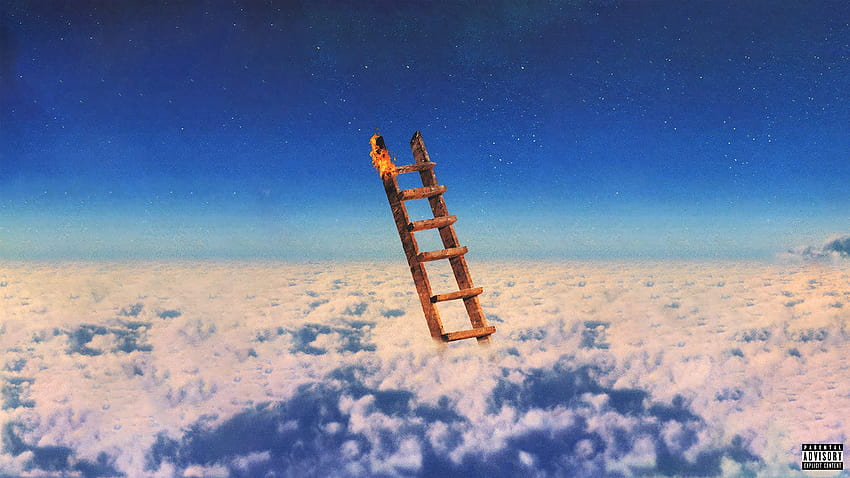
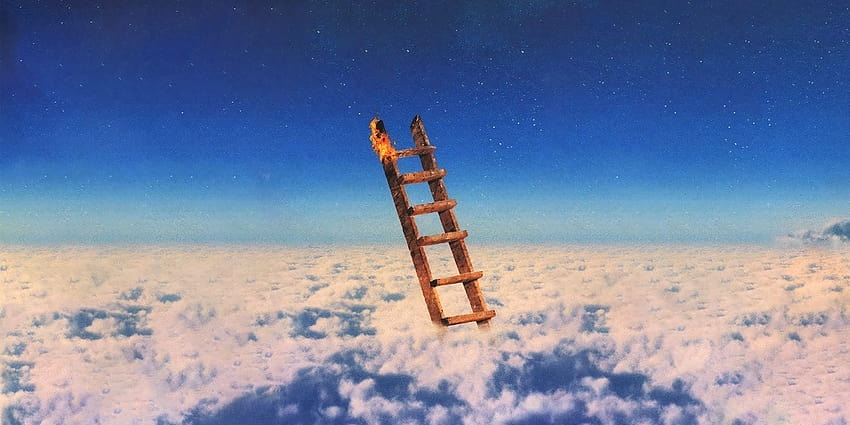
이미지 비율 변경

diff --git a/app/desktopv3.tsx b/app/desktopv3.tsx
@@ -46,7 +46,7 @@ export default function DesktopV3() {
               src={artUrl}
               key={artUrl}
               style={{
-                height: '50vh',
+                height: '30vh',
                 // height: `${35 + (scrollPositions.scrollY / 100) * 15}%`,
                 // maxHeight: '80vh',
                 // maxWidth: '60%',
@@ -170,6 +170,7 @@ export default function DesktopV3() {
           <div>CUSTOMER SERVICE</div>
           <div>no-excuse-shop@naver.com</div>
           <div>010-5133-6385</div>
+          <div>평일 10:00 ~ 18:00 | 주말 및 공휴일 휴무</div>
         </div>
         <div className={'text-xs text-gray-500 text-center'}>
           {FooterContent}

diff --git a/app/mobilev2.tsx b/app/mobilev2.tsx
@@ -167,6 +167,7 @@ export default function MobileV2() {
           <div>CUSTOMER SERVICE</div>
           <div>no-excuse-shop@naver.com</div>
           <div>010-5133-6385</div>
+          <div>평일 10:00 ~ 18:00 | 주말 및 공휴일 휴무</div>
         </div>
         <div className={'text-xs text-gray-500 text-center'}>
           {FooterContent}
